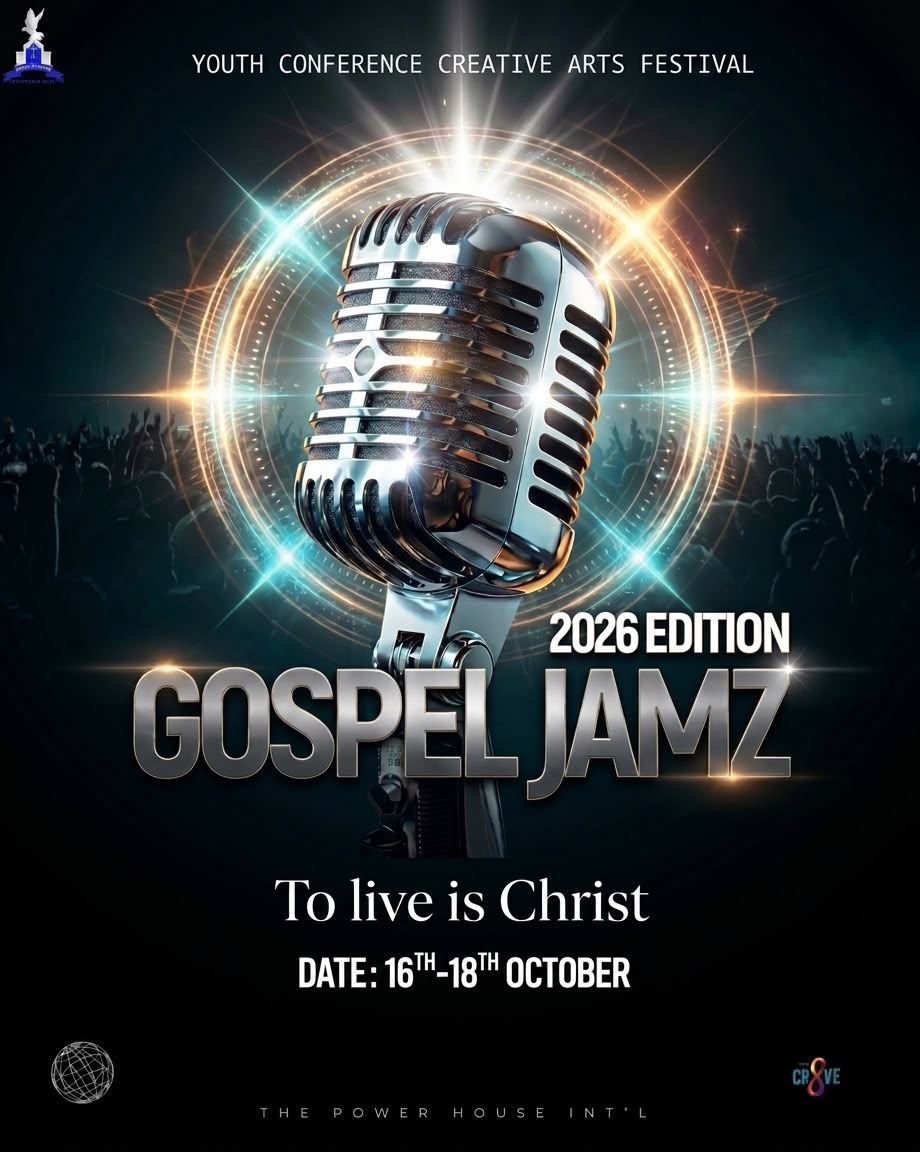
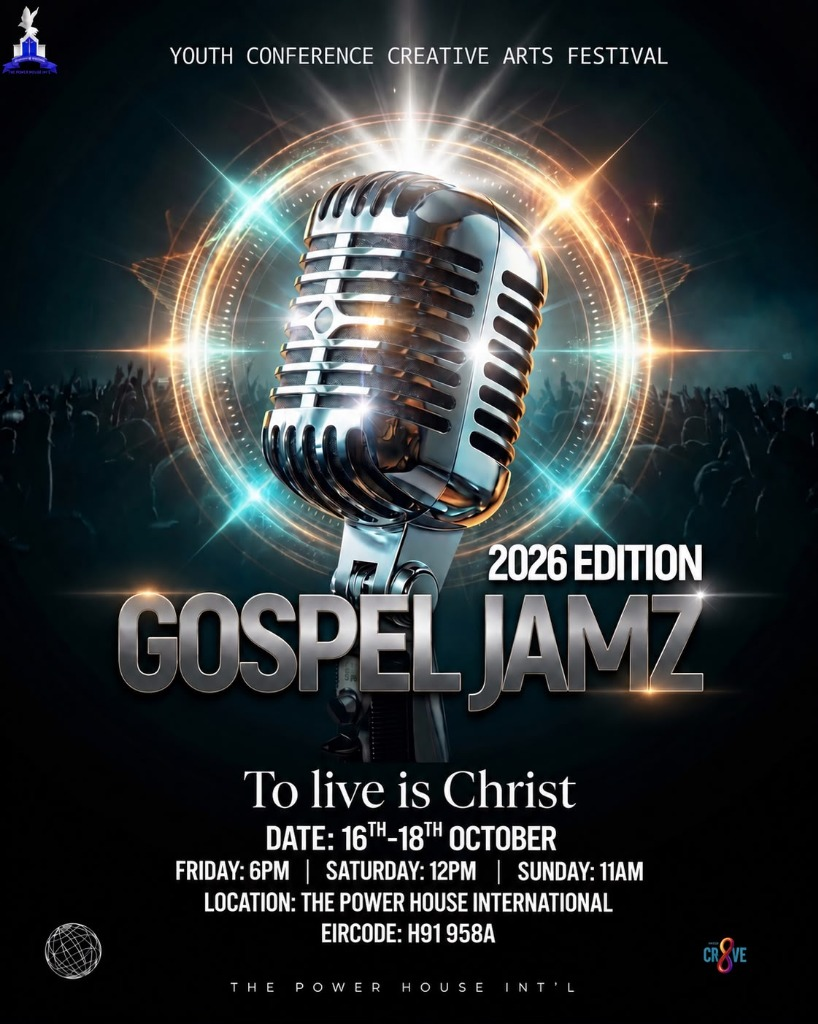
feat: update event flyer and add session times across site

diff --git a/src/routes/index.tsx b/src/routes/index.tsx
@@ -1,5 +1,5 @@
 import { createFileRoute, Link } from "@tanstack/react-router";
-import { ArrowUpRight, CalendarDays, MapPin, Ticket } from "lucide-react";
+import { ArrowUpRight, CalendarDays, Clock, MapPin, Ticket } from "lucide-react";
 import { Accordion, AccordionContent, AccordionItem, AccordionTrigger } from "@/components/ui/accordion";
 import { Nav } from "@/components/site/Nav";
 import { Footer } from "@/components/site/Footer";
@@ -26,9 +26,9 @@ export const Route = createFileRoute("/")({
 });
 
 const programme = [
-  { day: "01 · Fri 16 Oct", title: "The Call", items: ["Doors & welcome", "Opening worship", "Word: To live is Christ", "Late night prayer"] },
-  { day: "02 · Sat 17 Oct", title: "The Craft", items: ["Creative arts workshops", "Dance & spoken word", "Main session", "Gospel Jamz night"] },
-  { day: "03 · Sun 18 Oct", title: "The Commission", items: ["Morning worship", "Testimonies", "Closing word", "Sending out"] },
+  { day: "01 · Fri 16 Oct", time: "Starts 6:00 PM", title: "The Call", items: ["Doors & welcome", "Opening worship", "Word: To live is Christ", "Late night prayer"] },
+  { day: "02 · Sat 17 Oct", time: "Starts 12:00 PM", title: "The Craft", items: ["Creative arts workshops", "Dance & spoken word", "Main session", "Gospel Jamz night"] },
+  { day: "03 · Sun 18 Oct", time: "Starts 11:00 AM", title: "The Commission", items: ["Morning worship", "Testimonies", "Closing word", "Sending out"] },
 ];
 
 const values = [
@@ -101,10 +101,34 @@ function Home() {
             <div className="grid gap-px border border-border bg-border sm:grid-cols-3">
               {[["3", "Nights"], ["12+", "Sessions"], ["Free", "Entry"]].map(([number, label]) => <div key={label} className="bg-background p-7"><p className="font-display text-4xl text-primary">{number}</p><p className="mt-2 text-xs uppercase text-muted-foreground">{label}</p></div>)}
             </div>
-            <div className="grid gap-4 border-l-4 border-secondary bg-card p-7 sm:grid-cols-3">
-              <p className="flex items-center gap-3 text-sm"><CalendarDays className="text-secondary" size={18} /> 16–18 October</p>
-              <p className="flex items-center gap-3 text-sm"><MapPin className="text-secondary" size={18} /> Power House Int&apos;l</p>
-              <p className="flex items-center gap-3 text-sm"><Ticket className="text-secondary" size={18} /> Registration required</p>
+            <div className="border-l-4 border-secondary bg-card p-6 sm:p-7 space-y-4">
+              <div className="grid gap-4 sm:grid-cols-3">
+                <p className="flex items-center gap-3 text-sm font-medium">
+                  <CalendarDays className="text-secondary shrink-0" size={18} /> 16–18 October
+                </p>
+                <p className="flex items-center gap-3 text-sm font-medium">
+                  <MapPin className="text-secondary shrink-0" size={18} /> Power House Int&apos;l
+                </p>
+                <p className="flex items-center gap-3 text-sm font-medium">
+                  <Ticket className="text-secondary shrink-0" size={18} /> Registration required
+                </p>
+              </div>
+              <div className="flex flex-wrap items-center gap-x-5 gap-y-2 border-t border-border/80 pt-4 text-xs sm:text-sm">
+                <span className="flex items-center gap-2 font-display uppercase tracking-wider text-xs text-secondary font-bold">
+                  <Clock size={16} className="shrink-0" /> Times:
+                </span>
+                <span className="text-muted-foreground">
+                  <strong className="text-foreground">Friday:</strong> 6PM
+                </span>
+                <span className="text-border hidden sm:inline">|</span>
+                <span className="text-muted-foreground">
+                  <strong className="text-foreground">Saturday:</strong> 12PM
+                </span>
+                <span className="text-border hidden sm:inline">|</span>
+                <span className="text-muted-foreground">
+                  <strong className="text-foreground">Sunday:</strong> 11AM
+                </span>
+              </div>
             </div>
           </div>
         </div>
@@ -115,7 +139,25 @@ function Home() {
           <p className="eyebrow">Programme</p>
           <h2 className="mt-4 max-w-4xl text-4xl uppercase md:text-6xl">What the weekend looks like</h2>
           <div className="mt-12 grid gap-px border border-border bg-border lg:grid-cols-3">
-            {programme.map((item) => <article key={item.day} className="bg-card p-7 md:p-9"><p className="text-xs font-bold uppercase text-primary">{item.day}</p><h3 className="mt-4 text-3xl uppercase">{item.title}</h3><ul className="mt-8 space-y-0">{item.items.map((line, index) => <li key={line} className="grid grid-cols-[2rem_1fr] border-t border-border py-4 text-sm text-muted-foreground"><span className="text-secondary">0{index + 1}</span>{line}</li>)}</ul></article>)}
+            {programme.map((item) => (
+              <article key={item.day} className="bg-card p-7 md:p-9">
+                <div className="flex items-center justify-between border-b border-border pb-3">
+                  <p className="text-xs font-bold uppercase text-primary">{item.day}</p>
+                  <p className="flex items-center gap-1.5 font-mono text-xs text-secondary">
+                    <Clock size={13} /> {item.time}
+                  </p>
+                </div>
+                <h3 className="mt-4 text-3xl uppercase">{item.title}</h3>
+                <ul className="mt-8 space-y-0">
+                  {item.items.map((line, index) => (
+                    <li key={line} className="grid grid-cols-[2rem_1fr] border-t border-border py-4 text-sm text-muted-foreground">
+                      <span className="text-secondary">0{index + 1}</span>
+                      {line}
+                    </li>
+                  ))}
+                </ul>
+              </article>
+            ))}
           </div>
         </div>
       </section>

diff --git a/src/routes/register.tsx b/src/routes/register.tsx
@@ -1,4 +1,5 @@
 import { createFileRoute } from "@tanstack/react-router";
+import { Clock } from "lucide-react";
 import { Nav } from "@/components/site/Nav";
 import { Footer } from "@/components/site/Footer";
 import { RegisterForm } from "@/components/site/RegisterForm";
@@ -40,11 +41,21 @@ function RegisterPage() {
               Three nights of worship, word and creative arts. Entry is free — registering just
               helps us plan the room, the resources and the food.
             </p>
+            <div className="mt-6 flex flex-wrap items-center gap-x-4 gap-y-2 border-y border-border/80 py-3 text-xs text-muted-foreground">
+              <span className="flex items-center gap-1.5 font-display uppercase tracking-wider text-secondary font-bold">
+                <Clock size={14} /> Times:
+              </span>
+              <span><strong className="text-foreground">Fri:</strong> 6PM</span>
+              <span className="text-border">|</span>
+              <span><strong className="text-foreground">Sat:</strong> 12PM</span>
+              <span className="text-border">|</span>
+              <span><strong className="text-foreground">Sun:</strong> 11AM</span>
+            </div>
             <img
               src={flyer.url}
               alt="Gospel Jamz 2026 official flyer"
               loading="lazy"
-              className="mt-10 w-full border border-border"
+              className="mt-8 w-full border border-border"
             />
           </div>
           <div className="border-t-4 border-primary bg-card p-6 sm:p-10">

diff --git a/src/components/site/RegisterForm.tsx b/src/components/site/RegisterForm.tsx
@@ -7,6 +7,11 @@ import { CheckCircle2, Loader2 } from "lucide-react";
 import { Button } from "@/components/ui/button";
 
 const DAYS = ["Fri 16 Oct", "Sat 17 Oct", "Sun 18 Oct"];
+const DAY_TIMES: Record<string, string> = {
+  "Fri 16 Oct": "6PM",
+  "Sat 17 Oct": "12PM",
+  "Sun 18 Oct": "11AM",
+};
 
 const schema = z.object({
   full_name: z.string().trim().min(2, "Please enter your name").max(120),
@@ -110,7 +115,7 @@ export function RegisterForm() {
                     : "border-border text-muted-foreground hover:border-primary hover:text-foreground"
                 }`}
               >
-                {d}
+                {d} <span className="ml-1 opacity-75 font-normal">({DAY_TIMES[d]})</span>
               </Button>
             );
           })}
